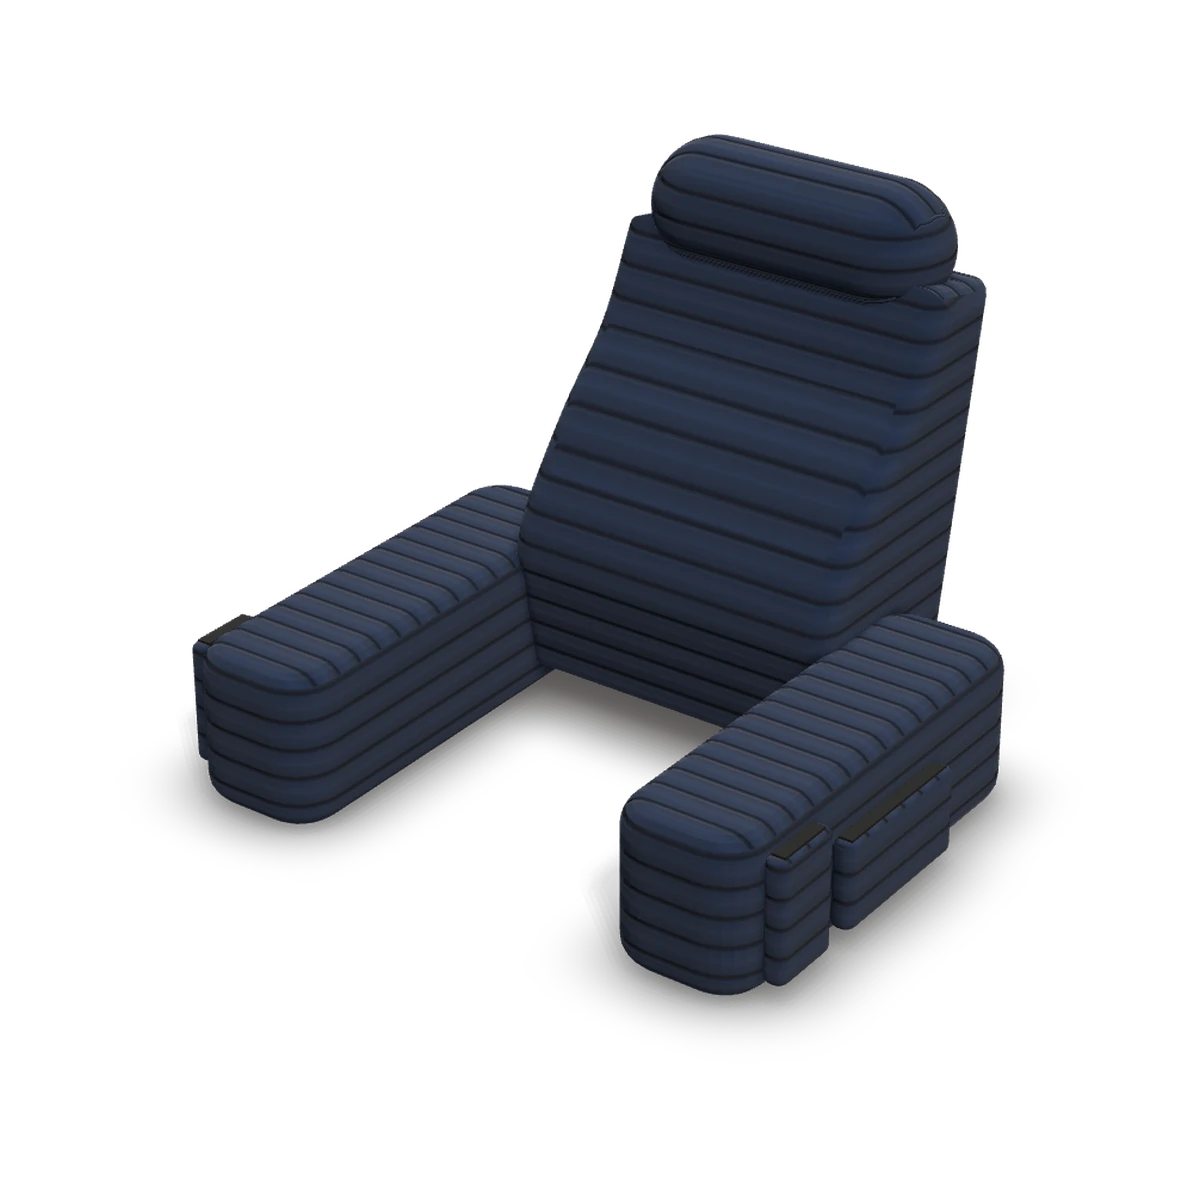
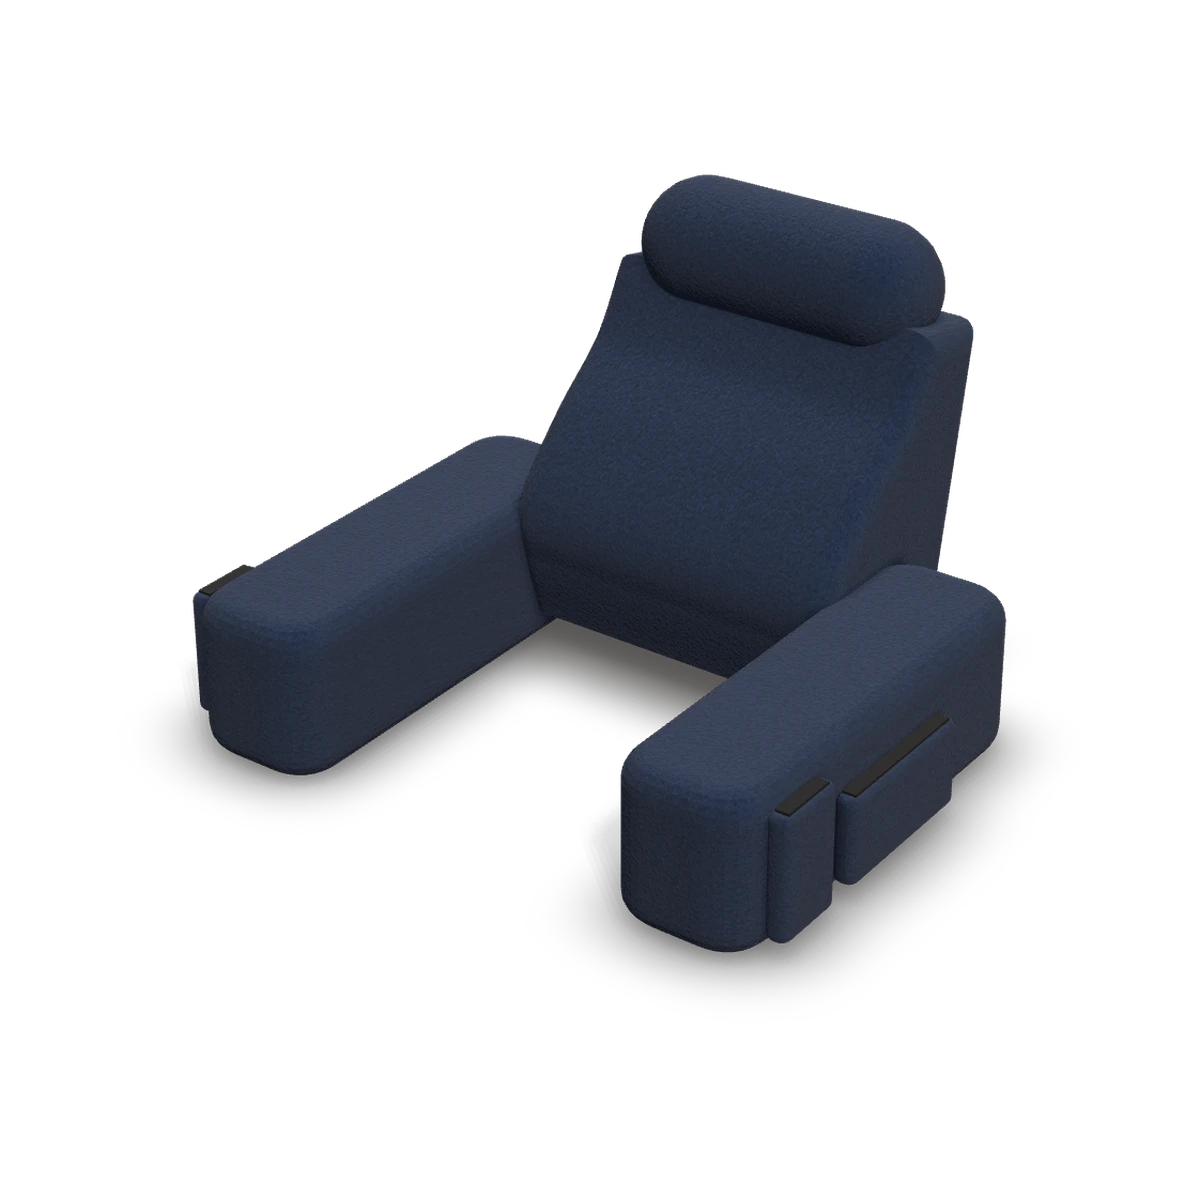
build3d: engine 1.26.2; bed lounger image without stripes
Claude-Session: https://claude.ai/code/session_01JG1aApTUvxwtxZTArjXguX

diff --git a/modulary/build3d.js b/modulary/build3d.js
@@ -1,7 +1,7 @@
 /* MODULARY / MORE – "בונים בתלת־ממד": one page, every configurator product.
    Loads the shared MORE configurator engine (pinned commit) and swaps products with ?p=<id>.
    #mb3d data attributes: data-quote (contact URL), data-brand (title suffix), data-prices="on" to show list prices. */
-const ENGINE = 'https://cdn.jsdelivr.net/gh/modulary-office/more-configurator@0807bd2f058e50e9afd67f4aeefa3f205fa4f40e/dist/';
+const ENGINE = 'https://cdn.jsdelivr.net/gh/modulary-office/more-configurator@98dc78269de7b23c251898d8c14dde5858255984/dist/';
 const GROUPS = [
   ['שולחנות', [['office-desk', 'שולחן עבודה'], ['manager-desk', 'שולחן מנהל'], ['desk-frame', 'שלד לשולחן'], ['meeting-table', 'שולחן ישיבות']]],
   ['עמדות עבודה', [['bench-desk', 'עמדות משותפות'], ['duo-bench', 'Duo Bench עם מחיצות']]],
